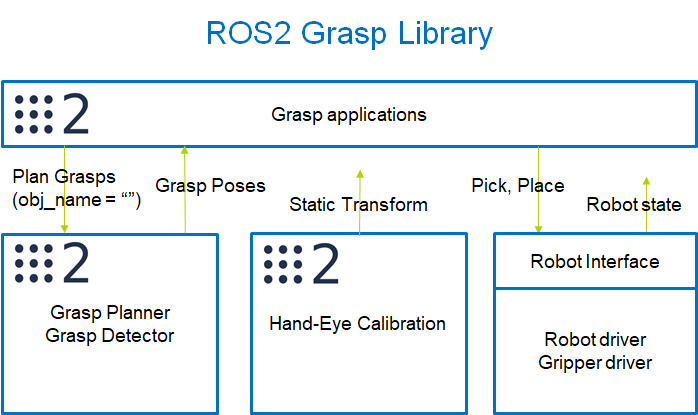
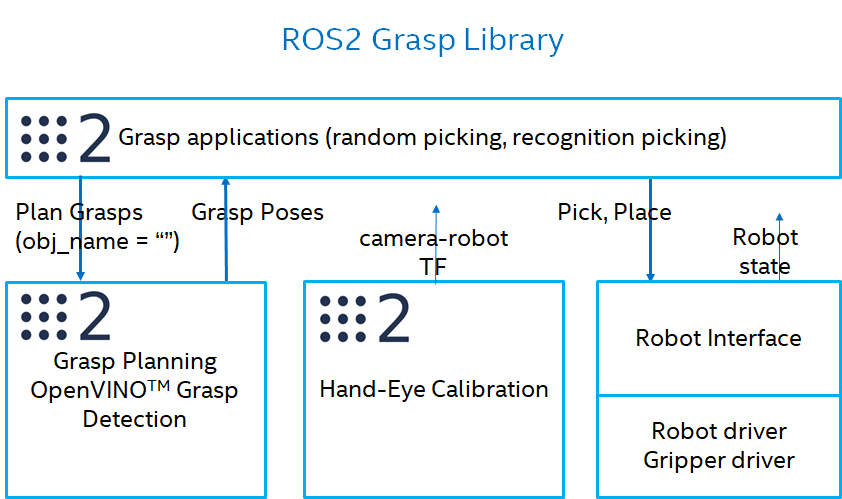
grasp_tutorials: added two pages
grasp_tutorials/doc/getting_start.rst
grasp_tutorials/doc/bringup_robot.rst

Changed region(s): [[0.0, 0.1735, 1.0, 1.0], [0.3009, 0.0289, 0.7221, 0.1157]]

diff --git a/grasp_tutorials/doc/getting_start.rst b/grasp_tutorials/doc/getting_start.rst
@@ -1,0 +1,51 @@
+Getting Start
+=============
+
+This tutorial introduces getting start to use this ROS2 Grasp Library.
+
+.. _GraspPlanning: http://docs.ros.org/api/moveit_msgs/html/srv/GraspPlanning.html
+.. _GPD: https://github.com/atenpas/gpd
+.. _OpenVINO™: https://software.intel.com/en-us/openvino-toolkit
+.. _Grasp: http://docs.ros.org/api/moveit_msgs/html/msg/Grasp.html
+
+ROS2 Grasp Planner and Detector
+-------------------------------
+
+In this section, you will start with an RGBD sensor connecting to a Ubuntu host machine.
+
+The grasp detection relys on OpenVINO™ toolkit. Follow this `grasp_planner <grasp_planner.html>`_ instruction to install the toolkit, then build and install the ROS2 Grasp Planner and Detector with your camera.
+
+After launch the grasp planner, from rviz you will see grasp detection results highlighted as blue markers.
+
+.. image:: ./grasp_ros2/img/ros2_grasp_library.png
+   :width: 643 px
+   :height: 435 px
+   :align: center
+
+Use Launch Options for Customization
+------------------------------------
+
+ROS2 parameters are supported to customize the Grasp Detector and Grasp Planner for your local workspace. For example, the topic name of point cloud from RGBD sensor, the camera workspace (in the frame_id of the point cloud image), the grasp approach direction and angle, the grasp boundary (in the frame_id of the robot base).
+
+Robot Interface
+---------------
+
+In this section, you will bring up your robot by implementing the Robot Interface. Currently the robot interface is defined in C++, python vesion is still working in progress.
+
+Robot Interface are the minimum APIs a robot should provide to enable this solution. Follow this `robot_interface <bringup_robot.html>`_ insturction to implement the required `move`, `open`, `close`, `startLoop` interfaces.
+
+Then make sure your implementation passed the Robot Interface tests, to garantee later integration with the example applications. Also you may try the "Robot Control Applications" (like Draw X, fixed position pick and place) to verify your implemntation working well.
+
+Hand-eye Calibration
+--------------------
+
+Now start to generate transformation between the camera and the robot. Follow this `handeye_calibration <handeye_calibration.html>`_ insturtion to finish the procedure of hand-eye calibration. The calibration procedure need to be done at the time when camera is setup. The resulting transformation will be remembered in your local environment for later publishing when launching the applications.
+
+Launch Intelligent Visual Grasp Applications
+--------------------------------------------
+
+To this step, you may start to launch the applications.
+
+`Random Picking <random_pick.html>`_ runs OpenVINO grasp detection on GPU, and sends request to ROS2 MoveIt Grasp Planner for grasp planning and detection. The most likely successful grasps are returned by the Grasp Pose Detection from CNN inference, taking 3D point cloud inputs from the camera. The picking order is not pre-defined, so called random picking.
+
+`Recognition Picking <recognize_pick.html>`_ runs OpenVINO grasp detection on GPU, and runs OpenVINO object segmentation on CPU or Movidius VPU. The masks of recognized objects are returned from the `mask_rcnn` model. The `place_publisher` publishing the name of the object to pick and the position to place, so called recognition picking.

diff --git a/grasp_tutorials/doc/bringup_robot.rst b/grasp_tutorials/doc/bringup_robot.rst
@@ -1,0 +1,59 @@
+Bring up a New Robot
+====================
+
+This tutorial explains what is expected to do when bringing up this ROS2 Grasp Library on a new robot.
+
+.. _GraspPlanning: http://docs.ros.org/api/moveit_msgs/html/srv/GraspPlanning.html
+.. _GPD: https://github.com/atenpas/gpd
+.. _OpenVINO™: https://software.intel.com/en-us/openvino-toolkit
+.. _Grasp: http://docs.ros.org/api/moveit_msgs/html/msg/Grasp.html
+
+Minimum APIs to Implement
+-------------------------
+
+- `moveToTcpPose`
+
+  - Move the TCP (tool center point, usually the end effector of the robot arm, not the hand) to a pose specified with position [x, y, z] and orientation [alpha, betta, gamma] (also called [roll, pitch, yaw]). This function returns when the robot `moved` to the specified pose.
+
+- `moveToJointValues`
+
+  - Move each joint of the robot to the specified values (usually angles). This function differs from the `moveToTcpPose` since a same TCP pose may be reached with various solutions of joint values. This function is used when the application expect the joints of the robot in specific state, that is proper to performe any successive picking or place action. This function returns when the robot `moved` to the specified joint values.
+
+- `open`
+
+  - Open the gripper.
+
+- `close`
+
+  - Close the gripper.
+
+- `startLoop`
+
+  - Start a loop to read and publish the robot state. Robot states are subsribed by Rviz for visualization.
+
+Optional implementation and possible extentions
+-----------------------------------------------
+
+- Optionally you may implement the `pick` and `place` interface to customize the pick and placed pipeline, or even plug-in the collision avoidance motion planning.
+
+- Python extention is not supported. It's possible to implement the Robot Interface in python and bind to C++.
+
+
+Refer to `Robot Interface API <../api/html/index.html>`_ for more detailed definition.
+
+Example UR5 Implementation
+--------------------------
+
+Refer to the UR5 `example <https://github.com/intel/ros2_grasp_library/tree/master/grasp_utils/robot_interface/src>`_ implementatino for Robot Interface.
+
+Test Your Implementation
+------------------------
+
+It's important to test your implementation before integrating this part with other components in ROS2 Grasp Library.
+
+Refer to `UR5 tests <https://github.com/intel/ros2_grasp_library/blob/master/grasp_utils/robot_interface/test/ur_test_move_command.cpp>`_, adapt it to your robot tests.
+
+Bring up Robot Control Applications
+-----------------------------------
+
+Once finished the testing, you may start to bring up the `Draw X <draw_x.html>`_ app or the `fixed position pick and place <fixed_position_pick.html>`_ app on your new robot. These application does not require camera, instead they control the robot only.

diff --git a/grasp_tutorials/doc/overview.rst b/grasp_tutorials/doc/overview.rst
@@ -8,17 +8,15 @@ Overview
 
 ROS2 Grasp Library consists of
 
-- A ROS2 Grasp Planner providing grasp planning service, as an extensible capability of MoveIt (moveit_msgs::srv::`GraspPlanning`_)
-
-- A ROS2 Grasp Detector interface, enabled with the specific back-end algorithm `GPD`_ with Intel® `OpenVINO™`_ technology
-
-- Hand-eye calibration generating transformation from camera frame to a specified target frame; Grasp translation to the MoveIt Interfaces (moveit_msgs::msg::`Grasp`_)
-
-- Robot interfaces controlling the phsical robot to move, pick, place, as well as to feedback robot states
-
-- Grasp applications demonstrating the grasp planning capabilities, and telling how to put all the above software components together for intelligent visual manipulation tasks
-
 .. image:: ../_static/images/ros2_grasp_library.png
    :width: 523 px
    :height: 311 px
    :align: center
+
+- A ROS2 Grasp Planner providing grasp planning service, as an extensible capability of MoveIt (moveit_msgs::srv::`GraspPlanning`_), translating grasp detection results into MoveIt Interfaces (moveit_msgs::msg::`Grasp`_). A ROS2 Grasp Detctor abstracting interfaces for grasp detection results
+
+- A ROS2 hand-eye calibration module generating transformation from camera frame to robot frame
+
+- Robot interfaces controlling the phsical robot to move, pick, place, as well as to feedback robot states
+
+- ROS2 example applications demonstrating how to use this ROS2 Grasp Library in advanced industrial usages for intelligent visual grasp

diff --git a/grasp_tutorials/index.rst b/grasp_tutorials/index.rst
@@ -1,20 +1,20 @@
 Welcome to ROS2 Grasp Library Tutorial
-==========================================
+======================================
 
-ROS2 Grasp Library enables state-of-the-art CNN based deep learning grasp detection algorithms on ROS2 for visual manipulation of industrial robot. This package provide ROS2 interfaces compliant with the `MoveIt <http://moveit.ros.org>`_ motion planning framework which is supported by most of the `robot models <https://moveit.ros.org/robots>`_ in ROS industrial.
+This is a ROS2 intelligent visual grasp solution for advanced industrial usages, with OpenVINO™ grasp detection and MoveIt Grasp Planning.
 
-Build This Tutorial
--------------------
+Build and test this tutorial
+----------------------------
 
 ::
 
-  cd grasp_tutorials
+  cd ros2_grasp_library/grasp_tutorials
 
-  sphinx-build . build
+  sphinx-build . build # check the outputs in the ./build/ folder
 
-  cd grasp_utils/robot_interface
+  cd ros2_grasp_library/grasp_utils/robot_interface
 
-  doxygen Doxyfile
+  doxygen Doxyfile # check the outputs in the ./build/ folder
 
 Contents:
 ---------
@@ -23,16 +23,20 @@ Contents:
 
    doc/overview
 
-   doc/robot_interface
-
-   doc/handeye_calibration
+   doc/getting_start
 
    doc/grasp_planner
+
+   doc/robot_interface
+
+   doc/bringup_robot
+
+   doc/handeye_calibration
 
    doc/random_pick
 
    doc/recognize_pick
 
-   doc/template
-
    doc/grasp_api
+
+   doc/template

diff --git a/grasp_tutorials/doc/grasp_planner.rst b/grasp_tutorials/doc/grasp_planner.rst
@@ -5,14 +5,18 @@ Tutorials
 ---------
 
 - `Install OpenVINO™ toolkit`_
-  .. _Install OpenVINO™ toolkit: https://github.com/intel/ros2_grasp_library/tree/master/grasp_tutorials/doc/grasp_ros2/install_openvino.md
+
+.. _Install OpenVINO™ toolkit: https://github.com/intel/ros2_grasp_library/tree/master/grasp_tutorials/doc/grasp_ros2/install_openvino.md
 
 - `Launch ROS2 Grasp Planner and Detector`_
-  .. _Launch Grasp Planner and Detector: https://github.com/intel/ros2_grasp_library/tree/master/grasp_tutorials/doc/grasp_ros2/tutorials_1_grasp_ros2_with_camera.md
+
+.. _Launch ROS2 Grasp Planner and Detector: https://github.com/intel/ros2_grasp_library/tree/master/grasp_tutorials/doc/grasp_ros2/tutorials_1_grasp_ros2_with_camera.md
 
 - `Launch tests`_
-  .. _Launch tests: https://github.com/intel/ros2_grasp_library/tree/master/grasp_tutorials/doc/grasp_ros2/tutorials_2_grasp_ros2_test.md
+
+.. _Launch tests: https://github.com/intel/ros2_grasp_library/tree/master/grasp_tutorials/doc/grasp_ros2/tutorials_2_grasp_ros2_test.md
 
 - `Use launch options`_
-  .. _Use launch options: https://github.com/intel/ros2_grasp_library/tree/master/grasp_tutorials/doc/grasp_ros2/tutorials_3_grasp_ros2_launch_options.md
+
+.. _Use launch options: https://github.com/intel/ros2_grasp_library/tree/master/grasp_tutorials/doc/grasp_ros2/tutorials_3_grasp_ros2_launch_options.md
 
